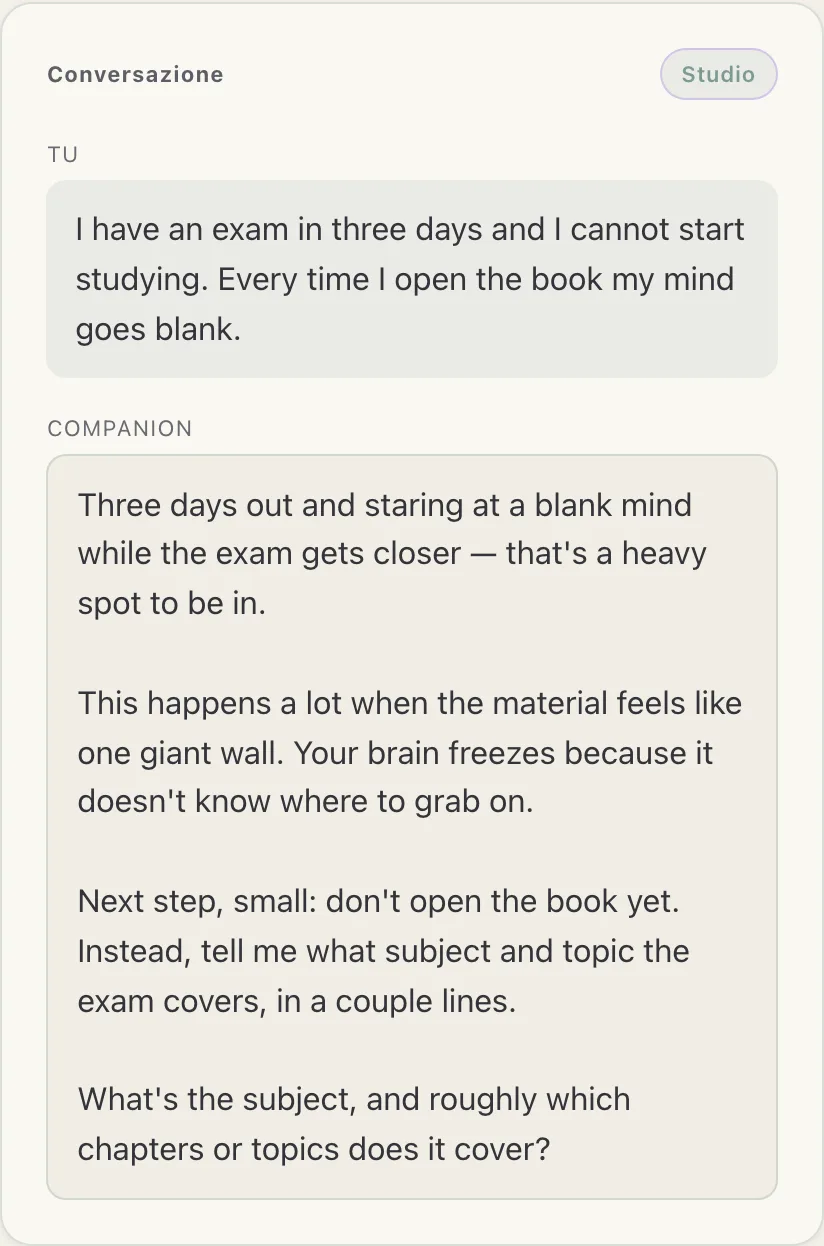
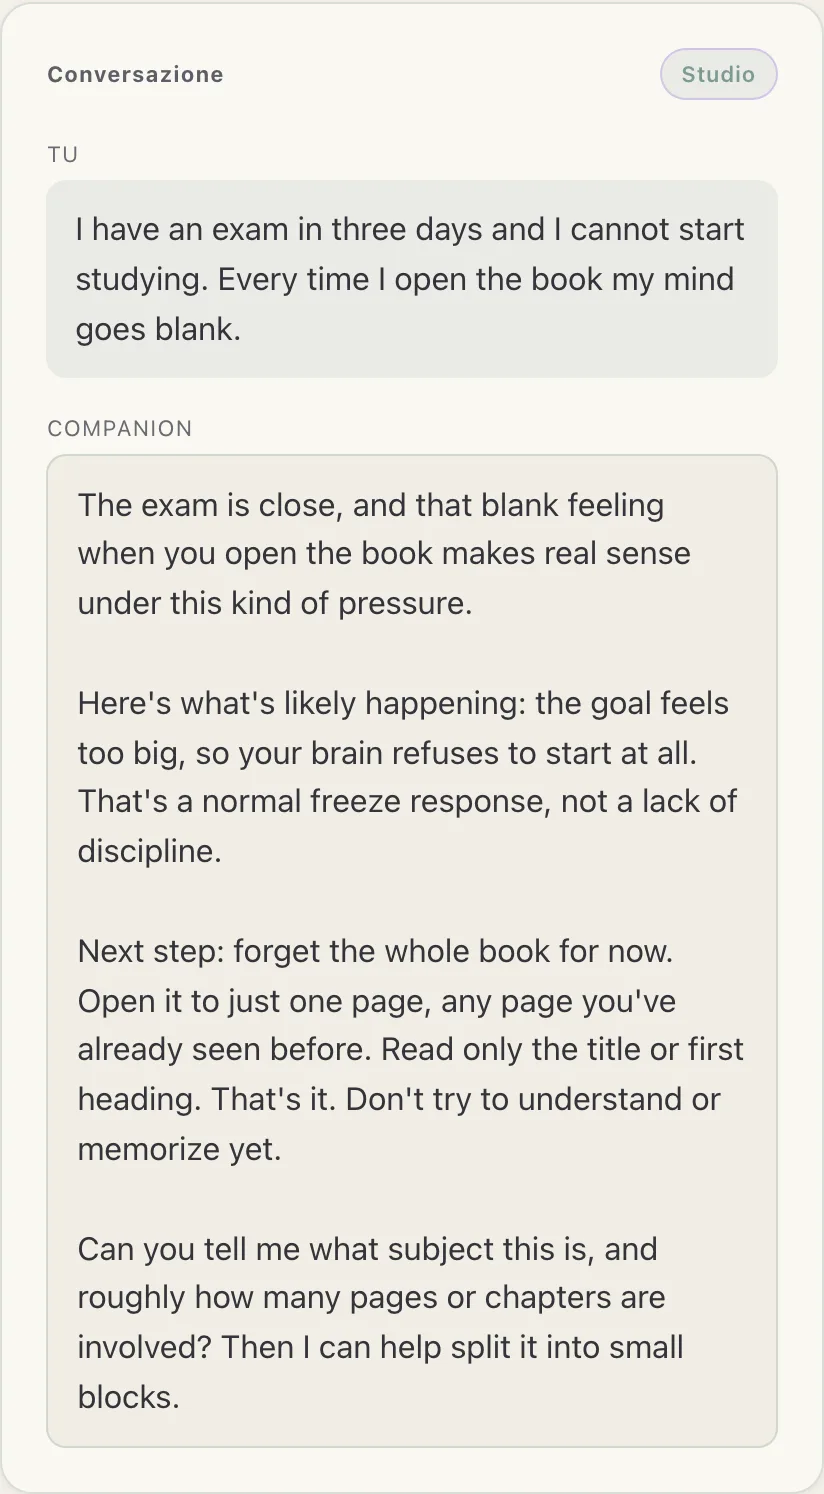
Home: al posto della pagina Utenti (rimossa) la pagina Codici vera
La homepage mostrava «Gestionale lato scuola: elenco delle persone che usano
NeuroDesk, ognuna con il suo profilo» — cioè la pagina che abbiamo tolto ieri
perché raccoglieva nome, cognome ed email. Stavamo pubblicizzando una funzione
che non esiste più e che contraddice quello che scriviamo sulla privacy due
sezioni più sotto.

Ora c'è la pagina Codici: «rilascia accessi, non schede». Il testo accanto è
riscritto di conseguenza, nelle tre lingue.

Sulla pagina Partner, nella sezione sul rispetto, la schermata del consenso:
è la prova visiva di quello che il testo afferma — il consenso non è una casella
nascosta nelle condizioni, è uno schermo intero prima della prima parola.

Tolto anche «es. Clelia» dai segnaposto della pagina Codici: era il nome di una
tester vera, ed è finito dritto nel primo screenshot che ho generato. I
segnaposto dell'interfaccia diventano immagini pubbliche.

Peso: la pagina Codici pesa 26 KB in WebP contro gli 88 KB del JPEG che
sostituisce, quindi la home è più leggera di prima.

diff --git a/landing/index.fr.html b/landing/index.fr.html
@@ -297,11 +297,11 @@
           </div>
         </div>
         <div class="shot-row rev reveal">
-          <div class="shot-media"><div class="shot-frame"><div class="shot-bar" aria-hidden="true"><span></span><span></span><span></span></div><img src="assets/home-embed-2.jpg" alt="Tableau de bord côté école : la liste des personnes qui utilisent NeuroDesk, chacune avec son profil." /></div></div>
+          <div class="shot-media"><div class="shot-frame"><div class="shot-bar" aria-hidden="true"><span></span><span></span><span></span></div><img src="assets/codici.webp" width="1200" height="713" loading="lazy" decoding="async" alt="La page Codes de l'espace de gestion : la liste des codes d'accès délivrés, chacun avec une étiquette d'exemple, son état et si la personne a donné son consentement. En haut : « chaque code est un accès anonyme : ni nom, ni e-mail »." /></div></div>
           <div class="shot-copy">
-            <span class="tag">Pour l'école</span>
-            <h3>Gérez qui l'utilise</h3>
-            <p>L'école ou l'organisme crée les accès et gère les personnes qui utilisent NeuroDesk, chacune avec son profil.</p>
+            <span class="tag">Pour l'établissement</span>
+            <h3>Délivrez des accès, pas des fiches</h3>
+            <p>L'établissement délivre des codes d'accès anonymes : ni nom, ni e-mail. Une étiquette privée sert seulement à se rappeler à qui il a été remis, et l'accès se révoque quand il le faut.</p>
           </div>
         </div>
         <div class="shot-row reveal">

diff --git a/landing/index.html b/landing/index.html
@@ -290,11 +290,11 @@
           </div>
         </div>
         <div class="shot-row rev reveal">
-          <div class="shot-media"><div class="shot-frame"><div class="shot-bar" aria-hidden="true"><span></span><span></span><span></span></div><img src="assets/home-embed-2.jpg" alt="Gestionale lato scuola: elenco delle persone che usano NeuroDesk, ognuna con il suo profilo." /></div></div>
+          <div class="shot-media"><div class="shot-frame"><div class="shot-bar" aria-hidden="true"><span></span><span></span><span></span></div><img src="assets/codici.webp" width="1200" height="713" loading="lazy" decoding="async" alt="La pagina Codici del gestionale: l'elenco dei codici di accesso emessi, ognuno con un'etichetta di esempio, lo stato e se la persona ha dato il consenso. In cima la frase «Ogni codice è un accesso anonimo: niente nome, niente email»." /></div></div>
           <div class="shot-copy">
             <span class="tag">Per la scuola</span>
-            <h3>Gestisci chi lo usa</h3>
-            <p>La scuola o l'ente crea gli accessi e gestisce le persone che usano NeuroDesk, ognuna con il suo profilo.</p>
+            <h3>Rilascia accessi, non schede</h3>
+            <p>La scuola o l'ente emette codici di accesso anonimi: niente nome, niente email. Un'etichetta privata serve solo a ricordarsi a chi è stato dato, e si revoca quando serve.</p>
           </div>
         </div>
         <div class="shot-row reveal">

diff --git a/landing/index.en.html b/landing/index.en.html
@@ -297,11 +297,11 @@
           </div>
         </div>
         <div class="shot-row rev reveal">
-          <div class="shot-media"><div class="shot-frame"><div class="shot-bar" aria-hidden="true"><span></span><span></span><span></span></div><img src="assets/home-embed-2.jpg" alt="School dashboard: a list of the people using NeuroDesk, each with their own profile." /></div></div>
+          <div class="shot-media"><div class="shot-frame"><div class="shot-bar" aria-hidden="true"><span></span><span></span><span></span></div><img src="assets/codici.webp" width="1200" height="713" loading="lazy" decoding="async" alt="The Codes page of the admin area: the list of access codes issued, each with an example label, its status, and whether the person has given consent. At the top: «every code is an anonymous access: no name, no email»." /></div></div>
           <div class="shot-copy">
             <span class="tag">For the school</span>
-            <h3>Manage who uses it</h3>
-            <p>The school or organisation creates the access codes and manages the people using NeuroDesk, each with their own profile.</p>
+            <h3>Issue access, not records</h3>
+            <p>The school or organisation issues anonymous access codes: no name, no email. A private label is only there to remember who received it, and access can be revoked at any time.</p>
           </div>
         </div>
         <div class="shot-row reveal">

diff --git a/landing/finanziatori.fr.html b/landing/finanziatori.fr.html
@@ -282,6 +282,11 @@
         <div class="pillar"><h3>Aucune promesse vide</h3><p>NeuroDesk est un outil, pas une thérapie, et ne pose pas de diagnostic. Il ne remplace ni médecins ni services.</p></div>
         <div class="pillar"><h3>Construit avec ceux qui l'utilisent</h3><p>Les fonctions naissent de l'écoute de personnes neurodivergentes — TDAH, autisme, AuDHD, TOP, troubles DYS — et s'affinent avec leurs retours.</p></div>
       </div>
+      <div class="shot-frame" style="margin-top:2rem;max-width:34rem">
+        <img src="assets/consenso.webp" width="1120" height="1556" loading="lazy" decoding="async"
+             alt="L'écran « avant de commencer » : avant d'utiliser le Companion, la personne lit ce qu'il advient de ce qu'elle écrit, quels services d'IA le traitent, que les conversations sont chiffrées et effacées au bout de 30 jours, et qu'elle peut arrêter quand elle veut. Le bouton Continuer n'apparaît qu'après avoir coché la case.">
+      </div>
+      <p class="shot-cap">Le consentement n'est pas une case cachée dans les conditions : c'est un écran entier, avant le premier mot écrit.</p>
     </div>
   </section>
 

diff --git a/landing/finanziatori.html b/landing/finanziatori.html
@@ -280,6 +280,11 @@
         <div class="pillar"><h3>Nessuna promessa vuota</h3><p>NeuroDesk è uno strumento, non una terapia e non fa diagnosi. Non sostituisce medici o servizi.</p></div>
         <div class="pillar"><h3>Costruito con chi lo usa</h3><p>Le funzioni nascono dall'ascolto di persone neurodivergenti — ADHD, autismo, AuDHD, DOP, DSA — e si affinano con i loro feedback.</p></div>
       </div>
+      <div class="shot-frame" style="margin-top:2rem;max-width:34rem">
+        <img src="assets/consenso.webp" width="1120" height="1556" loading="lazy" decoding="async"
+             alt="La schermata «Prima di iniziare»: prima di poter usare il Companion la persona legge che cosa succede a quello che scrive, quali servizi AI lo trattano, che le conversazioni sono cifrate e si cancellano dopo 30 giorni, e che può smettere quando vuole. Solo dopo la spunta compare il pulsante Continua.">
+      </div>
+      <p class="shot-cap">Il consenso non è una casella nascosta nelle condizioni: è una schermata intera, prima di poter scrivere la prima parola.</p>
     </div>
   </section>
 

diff --git a/landing/finanziatori.en.html b/landing/finanziatori.en.html
@@ -282,6 +282,11 @@
         <div class="pillar"><h3>No empty promises</h3><p>NeuroDesk is a tool, not therapy, and it doesn't diagnose. It doesn't replace doctors or services.</p></div>
         <div class="pillar"><h3>Built with the people who use it</h3><p>Features come from listening to neurodivergent people — ADHD, autism, AuDHD, ODD, SLD — and are refined with their feedback.</p></div>
       </div>
+      <div class="shot-frame" style="margin-top:2rem;max-width:34rem">
+        <img src="assets/consenso.webp" width="1120" height="1556" loading="lazy" decoding="async"
+             alt="The «before you start» screen: before using the Companion, the person reads what happens to what they write, which AI services process it, that conversations are encrypted and deleted after 30 days, and that they can stop whenever they want. Only after ticking the box does the Continue button appear.">
+      </div>
+      <p class="shot-cap">Consent isn't a checkbox buried in the terms: it's a full screen, before the first word can be written.</p>
     </div>
   </section>
 

diff --git a/frontend/src/pages/CodiciPage.jsx b/frontend/src/pages/CodiciPage.jsx
@@ -127,7 +127,7 @@ function CodiciPage() {
                             value={etichetta}
                             onChange={(e) => setEtichetta(e.target.value)}
                             maxLength={60}
-                            placeholder="es. Clelia, oppure «tester 5»"
+                            placeholder="es. «tester 5», oppure un soprannome"
                             autoFocus
                         />
                         <small style={{ color: 'var(--text-3, #888)' }}>
@@ -173,7 +173,7 @@ function CodiciPage() {
                         type="search"
                         value={filtro}
                         onChange={(e) => setFiltro(e.target.value)}
-                        placeholder="es. Clelia"
+                        placeholder="cerca…"
                     />
                 </div>
             )}
